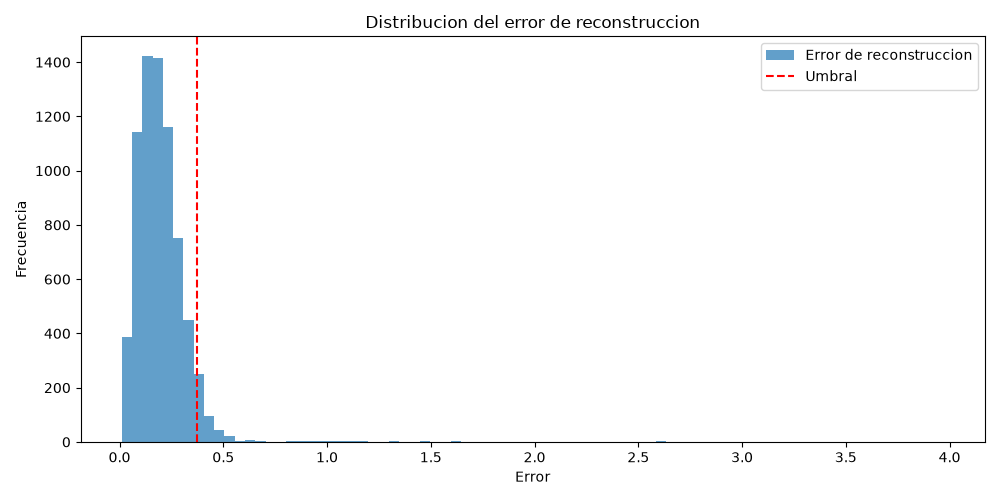
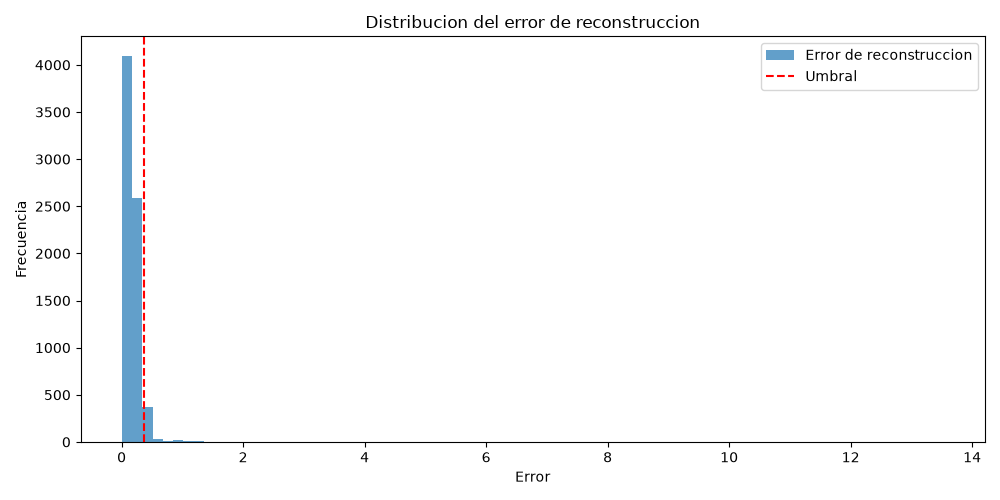
Actualiza historial y artefactos del modelo

diff --git a/dashboard/servicios/servicio_historial.py b/dashboard/servicios/servicio_historial.py
@@ -1,4 +1,4 @@
-import json
+import json
 import os
 import sqlite3
 
@@ -48,11 +48,11 @@ def asegurar_tabla_detecciones(conn=None):
 
 
 def guardar_deteccion(deteccion):
-    """Guarda una detección una sola vez por registro de telemetría."""
+    """Guarda una detecciÃ³n una sola vez por registro de telemetrÃa."""
     conn = _conectar()
     try:
         asegurar_tabla_detecciones(conn)
-        # Serializar la comprobación y la inserción para evitar duplicados
+        # Serializar la comprobaciÃ³n y la inserciÃ³n para evitar duplicados
         # cuando dos peticiones del dashboard analizan el mismo registro.
         conn.execute('BEGIN IMMEDIATE')
         registro_id = deteccion.get('id')
@@ -144,3 +144,4 @@ def obtener_estadisticas():
     finally:
         conn.close()
     return {'total': total, 'por_severidad': {fila[0]: fila[1] for fila in filas}}
+
